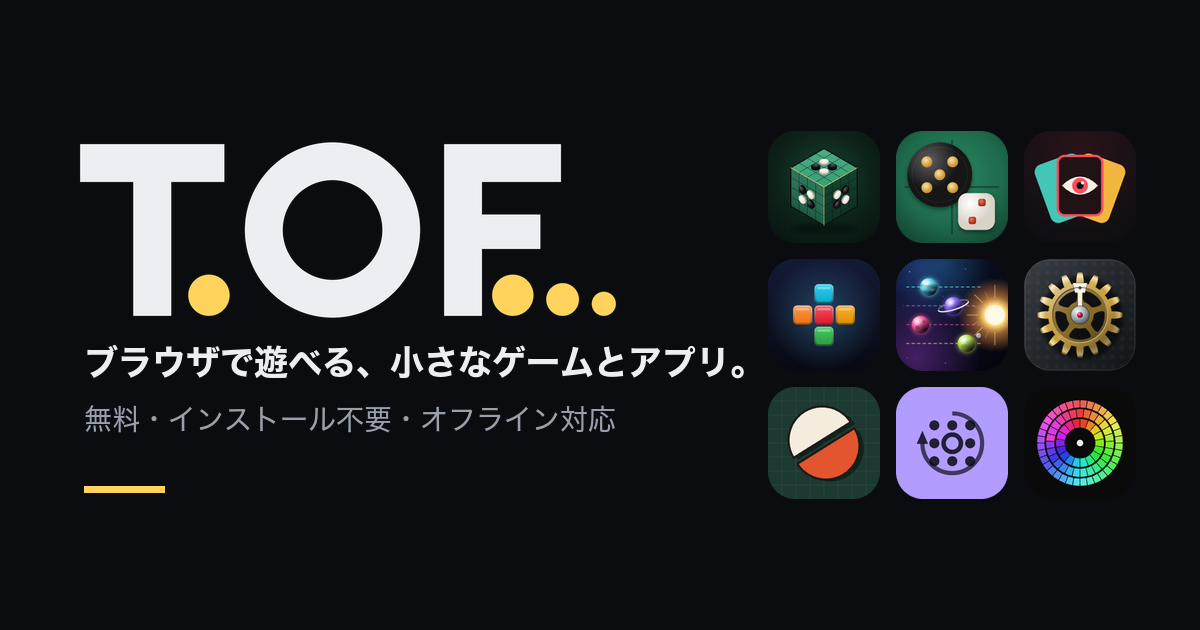
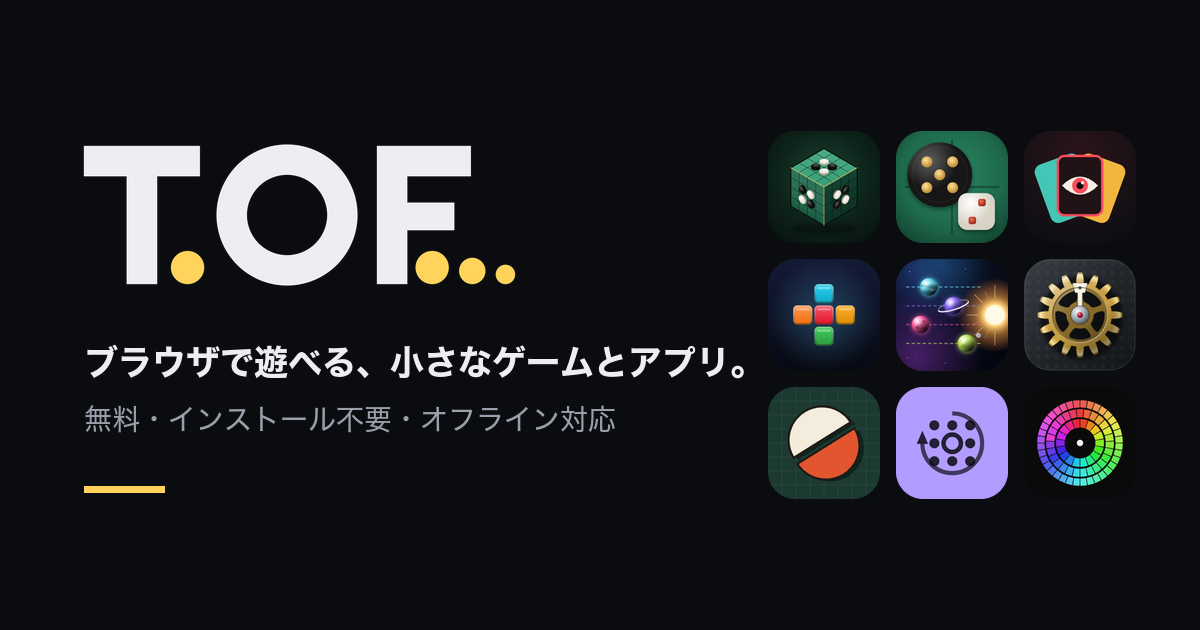
共有画像のロゴの大きさを調整

Changed region(s): [[0.0617, 0.2111, 0.5242, 0.5127]]

diff --git a/tools/make-icons.py b/tools/make-icons.py
@@ -20,8 +20,8 @@ def save(im, name):
 og = Image.new('RGB', (1200, 630), BG)
 d = ImageDraw.Draw(og)
 word = Image.open(os.path.join(ROOT, 'logo', 'tof-wordmark.png'))
-word = word.resize((600, round(word.height * 600 / word.width)), Image.LANCZOS)
-og.paste(word, (48, 112), word)
+word = word.resize((round(word.width * 190 / word.height), 190), Image.LANCZOS)   # 高さでそろえる
+og.paste(word, (58, 120), word)
 d.text((84, 345), 'ブラウザで遊べる、小さなゲームとアプリ。', font=ImageFont.truetype(JP_BOLD, 34), fill=FG)
 d.text((84, 405), '無料・インストール不要・オフライン対応', font=ImageFont.truetype(JP, 28), fill=(154, 160, 171))
 d.rectangle((84, 486, 164, 492), fill=ACCENT)
